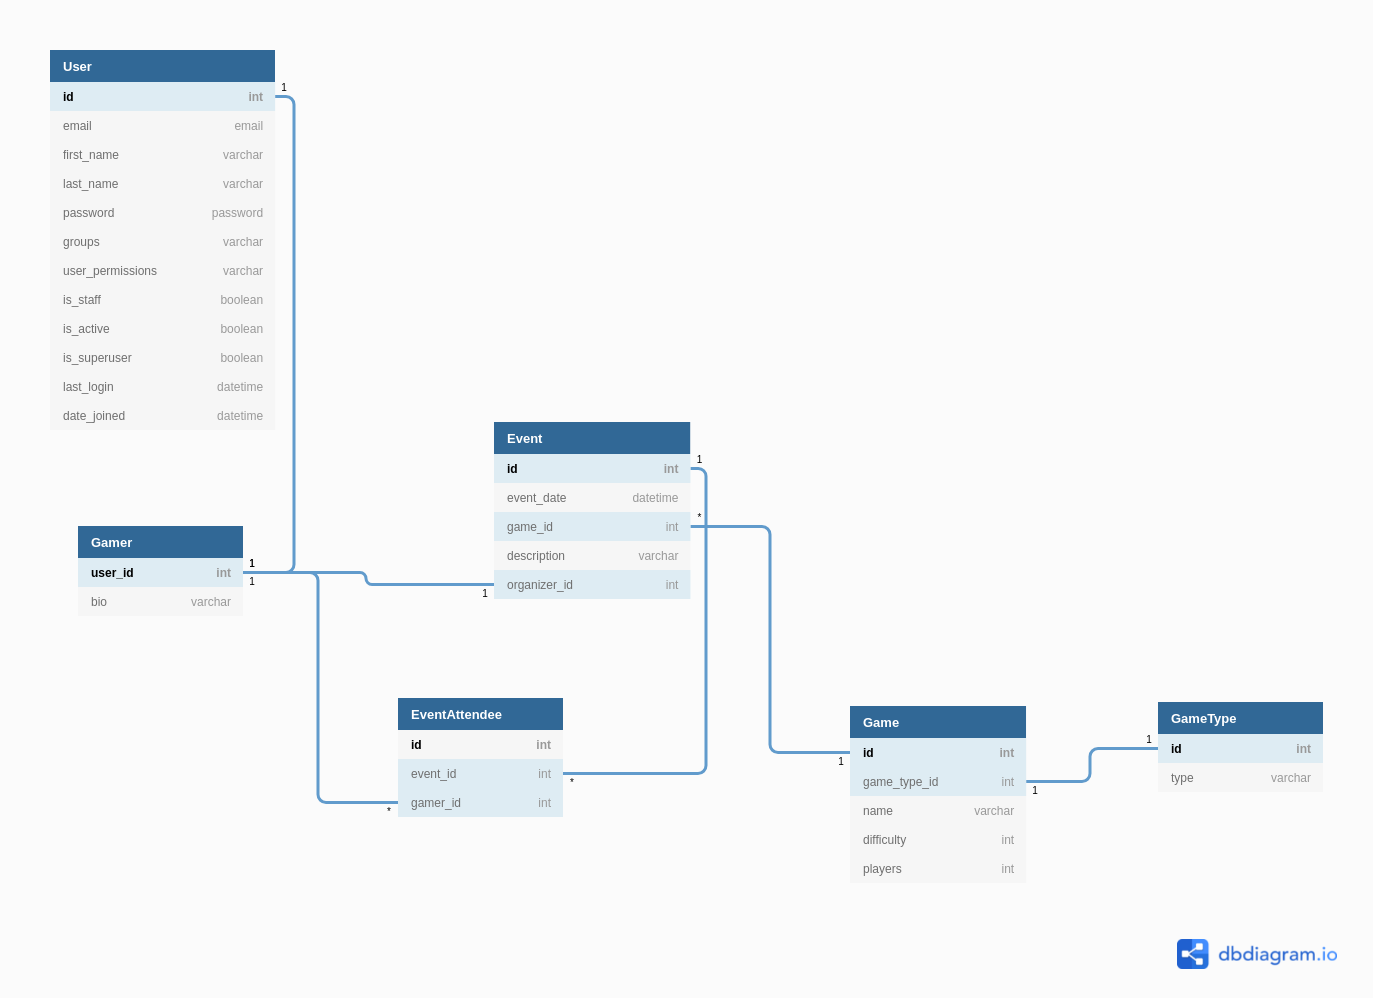
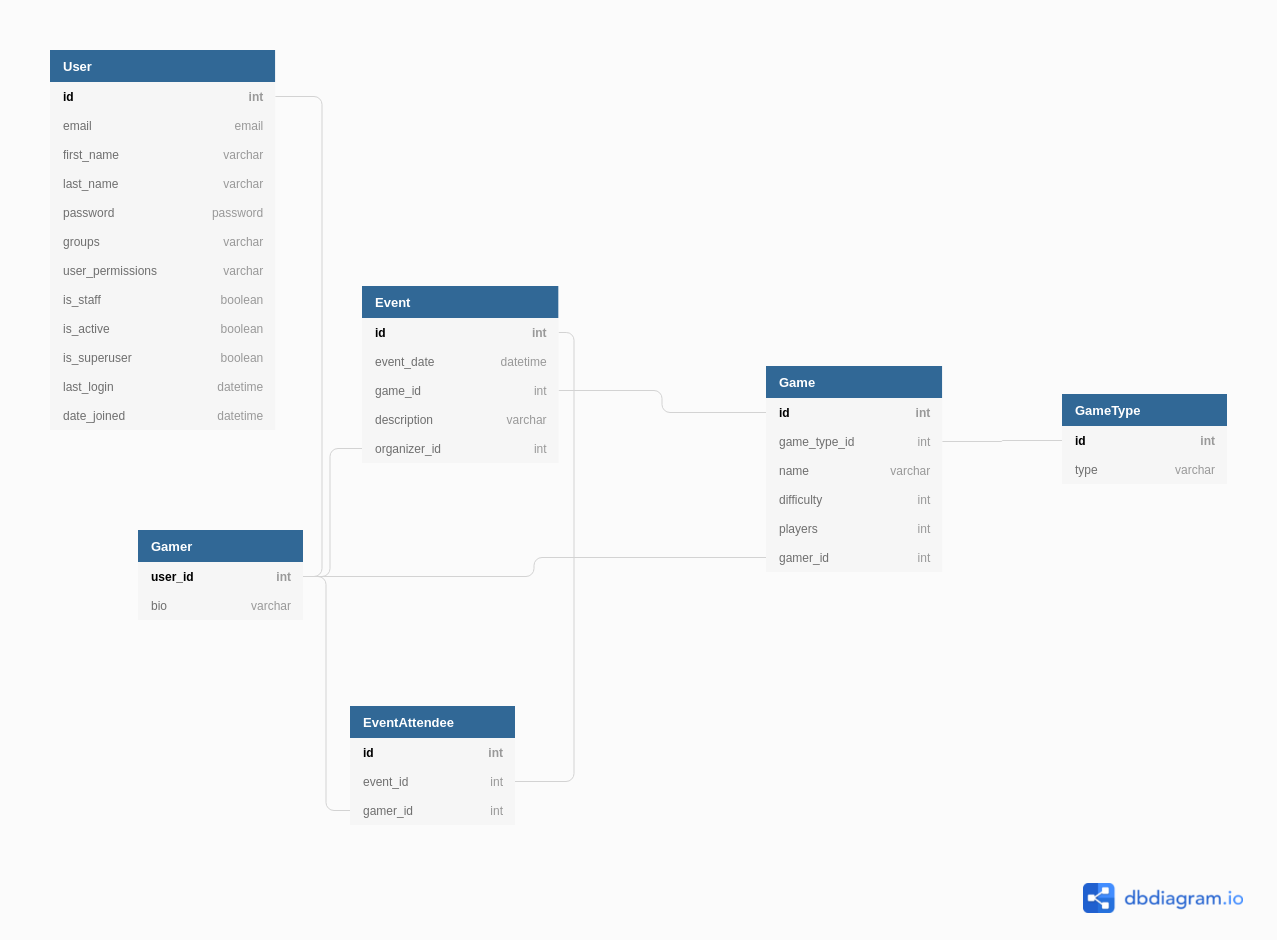
fix: update game model to include gamer foreign key. Run makemigrations and migrate to apply model changes to db. Update game fixture to include gamer id. Confirm fixtures loaded into db with SQL.

diff --git a/levelupapi/migrations/0002_game_gamer.py b/levelupapi/migrations/0002_game_gamer.py
@@ -1,0 +1,19 @@
+# Generated by Django 3.2 on 2021-05-04 20:16
+
+from django.db import migrations, models
+import django.db.models.deletion
+
+
+class Migration(migrations.Migration):
+
+    dependencies = [
+        ('levelupapi', '0001_initial'),
+    ]
+
+    operations = [
+        migrations.AddField(
+            model_name='game',
+            name='gamer',
+            field=models.ForeignKey(default=None, on_delete=django.db.models.deletion.CASCADE, to='levelupapi.gamer'),
+        ),
+    ]

diff --git a/levelupapi/models/game.py b/levelupapi/models/game.py
@@ -11,4 +11,5 @@ class Game(models.Model):
     difficulty = models.IntegerField()
     players = models.IntegerField()
 
+    gamer = models.ForeignKey("Gamer", on_delete=models.CASCADE, default=None)
     game_type = models.ForeignKey(GameType, on_delete=models.CASCADE)
